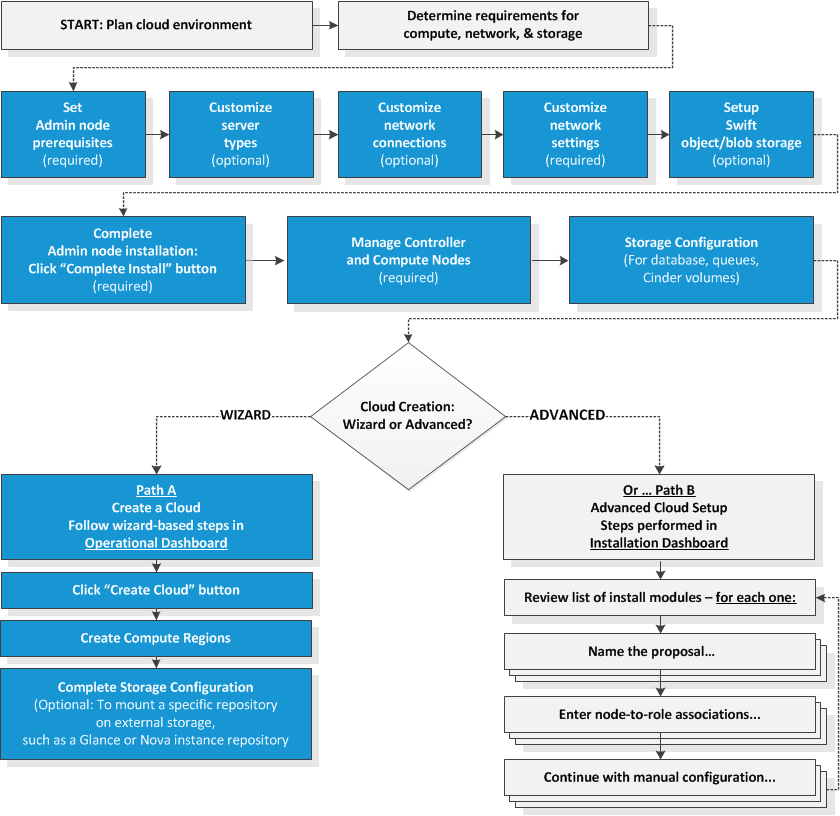
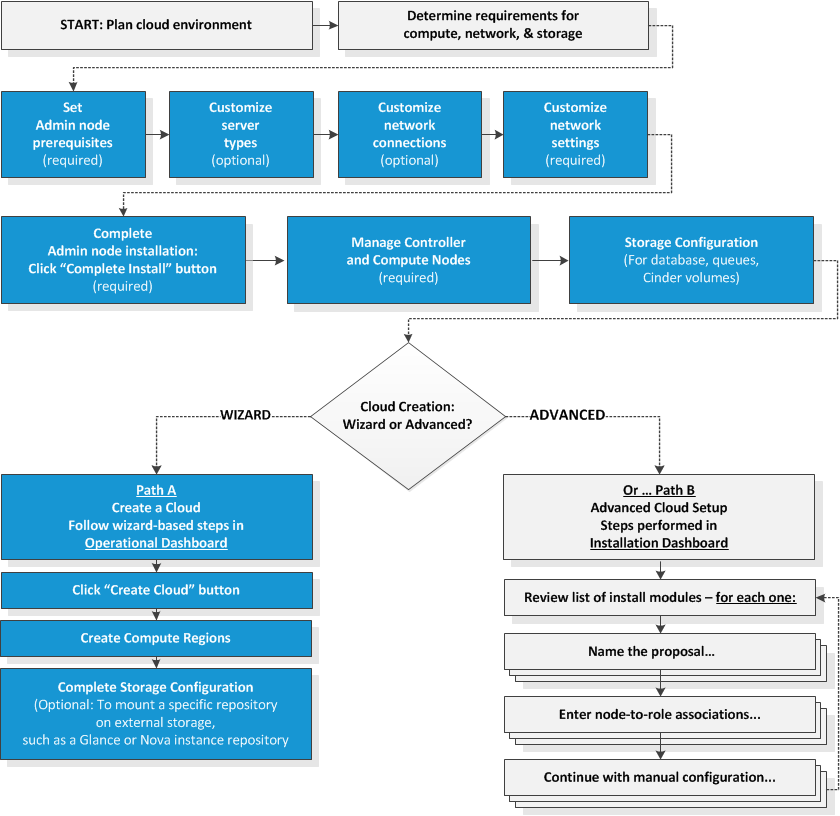
remove swift setup setps and update diagram

Changed region(s): [[0.7738, 0.0919, 1.0, 0.2451]]

diff --git a/cloudos/manage.troubleshooting.md b/cloudos/manage.troubleshooting.md
@@ -69,7 +69,11 @@ This topic describes known problems and solutions for the following areas:
 
 * [Troubleshooting Cloud OS Installation](#troubleshooting-cloud-os-installation)
 
-(TOC intra-file xrefs coming...) 
+ * [Problem: Cloud Infrastructure install module proposal fails](#problem-cloud-infrastructure-install-module-proposal-fails)
+ * [Problem: Cloud Controller node or Compute Region node displays the "not ready" (grey) state](#problem-cloud-controller-node-or-compute-region-node-displays-the-not-ready-grey-state)
+ * [Problem: Stopping services before Cloud OS completes processing jobs can cause a job failure](#problem-stopping-services-before-cloud-os-completes-processing-jobs-can-cause-a-job-failure)
+ * [Problem: Configure Cinder to use RAW multipath devices](#problem-configure-cinder-to-use-raw-multipath-devices)
+ * [Problem: Red screen when installing OS on bare metal nodes](#problem-red-screen-when-installing-os-on-bare-metal-nodes)
 
 
 ## Troubleshooting Cloud OS ISO
@@ -1192,11 +1196,11 @@ This section describes the following known problems and solutions for the Admini
 
 This section describes the following known problems and solutions for the Installation Dashboard:
 
-* [Problem: Cloud Infrastructure install module proposal fails
-* [Problem: Cloud Controller node or Compute Region node displays the "not ready" (grey) state
-* [Problem: Stopping services before Cloud OS completes processing jobs can cause a job failure
-* [Problem: Configure Cinder to use RAW multipath devices
-* [Problem: Red screen when installing OS on bare metal nodes
+* [Problem: Cloud Infrastructure install module proposal fails](#problem-cloud-infrastructure-install-module-proposal-fails)
+* [Problem: Cloud Controller node or Compute Region node displays the "not ready" (grey) state](#problem-cloud-controller-node-or-compute-region-node-displays-the-not-ready-grey-state)
+* [Problem: Stopping services before Cloud OS completes processing jobs can cause a job failure](#problem-stopping-services-before-cloud-os-completes-processing-jobs-can-cause-a-job-failure)
+* [Problem: Configure Cinder to use RAW multipath devices](#problem-configure-cinder-to-use-raw-multipath-devices)
+* [Problem: Red screen when installing OS on bare metal nodes](#problem-red-screen-when-installing-os-on-bare-metal-nodes)
 
 
 ### Problem: Cloud Infrastructure install module proposal fails

diff --git a/cloudos/install.md b/cloudos/install.md
@@ -35,7 +35,6 @@ Install and set up the Admin node:
 * [Customize Server Types (Optional)](/cloudos/install/customize-server-types/)
 * [Customize Network Connections (Optional)](/cloudos/install/customize-network-connections/)
 * [Customize Network Settings (Required)](/cloudos/install/customize-network-settings/)
-* [Setup Swift Storage Network (Optional)](/cloudos/install/setup-swift/)
 * [Complete Admin Node Installation (Required)](/cloudos/install/complete-admin-node-installation/)
 
 After you install and set up the Admin node, you can perform additional steps:
@@ -46,15 +45,17 @@ After you install and set up the Admin node, you can perform additional steps:
 * [Install Hot Fixes](/cloudos/install/hot-fixes/)
 * [Updates and Extensions](/cloudos/install/updates-and-extensions/)
 
-Also see the website copy of the [HP Cloud OS Operational Dashboard Help](http://docs.hpcloud.com/cloudos/operational-dashboard/index.htm). 
-Note: website copy not deployed yet. To access this document in the Operational Dashboard, click **Help** in its top banner.
-
 Finally, if you do not intend to use the wizard-based Cloud OS installation process that's described in 
 the Create a Cloud topic, and instead decide to apply and configure the install modules yourself, 
 see these topics: 
 
 * [Advanced Cloud Setup](/cloudos/install/advanced-cloud-setup/)
 * [Install Modules Reference](/cloudos/install/install-modules-reference/)
+
+**Note:** Also see the Help topics that are available in the Operational Dashboard and Administration Dashboard.  Wbsite copies are available:
+
+* [HP Cloud OS Operational Dashboard Help](http://docs.hpcloud.com/cloudos/operational-dashboard/index.htm)
+* [HP Cloud OS Administration Dashboard Help](http://docs.hpcloud.com/cloudos/administration-dashboard/index.htm)
 
 <a href="#_top" style="padding:14px 0px 14px 0px; text-decoration: none;"> Return to Top &#8593; </a>
 

diff --git a/cloudos/siteindex.md b/cloudos/siteindex.md
@@ -44,7 +44,6 @@ PageRefresh();
 * [Customize Server Types (Optional)](/cloudos/install/customize-server-types/)
 * [Customize Network Connections (Optional)](/cloudos/install/customize-network-connections/)
 * [Customize Network Settings (Required)](/cloudos/install/customize-network-settings/)
-* [Setup Swift Storage Network (Optional)](/cloudos/install/setup-swift/)
 * [Complete Admin Node Installation (Required)](/cloudos/install/complete-admin-node-installation/)
 * [Create a Cloud](/cloudos/install/create-cloud/) 
 * [Launch Administration Dashboard](/cloudos/install/launch-admin-dashboard/)
@@ -52,15 +51,14 @@ PageRefresh();
 * [Install Hot Fixes](/cloudos/install/hot-fixes/)
 * [Updates and Extensions](/cloudos/install/updates-and-extensions/)
 * [Advanced Cloud Setup](/cloudos/install/advanced-cloud-setup/)
-* [Install Modules Reference](/cloudos/install/install-modules-reference/)
+* [Install Modules Reference](/cloudos/install/install-modules-reference/) 
 
 #### [Manage your Clouds](/cloudos/manage/)
 
 * [HP Cloud OS Utilities](/cloudos/manage/utilities/)
 * [HP Cloud OS Troubleshooting](/cloudos/manage/troubleshooting/) 
-* [HP Cloud OS Operational Dashboard Help](http://docs.hpcloud.com/cloudos/operational-dashboard/index.htm)  
-* [HP Cloud OS Administration Dashboard Help](http://docs.hpcloud.com/cloudos/administration-dashboard/index.htm)  
-
+* [HP Cloud OS Operational Dashboard Help (website copy)](http://docs.hpcloud.com/cloudos/operational-dashboard/index.htm) 
+* [HP Cloud OS Administration Dashboard Help (website copy)](http://docs.hpcloud.com/cloudos/administration-dashboard/index.htm)  
 
 #### [Develop](/cloudos/develop/)
 

diff --git a/cloudos/install.advanced-cloud-setup.md b/cloudos/install.advanced-cloud-setup.md
@@ -43,8 +43,7 @@ Install modules are a mechanism to install and configure a service on the Contro
 
 When you create a cloud using the process defined in [Create a Cloud](/cloudos/install/create-cloud/), a number of OpenStack and HP Cloud OS 
 install modules are automatically configured and deployed for you. In most cases, the automated deployment of install modules will suffice. 
-**Exception:** the Swift install module must be installed manually following the general steps in this topic; this assumes you have already setup Swift, 
-as explained in [Setup Swift Storage Network](/cloudos/install/setup-swift) and [Create a Cloud](/cloudos/install/create-cloud).
+**Exception:** the Swift install module must be installed manually following the general steps in this topic. 
 
 If you decide instead to apply the install modules yourself, or should you need to customize values in the install modules 
 that were not exposed in the Create Cloud Attributes tab, this advanced topic, along with 
@@ -184,8 +183,7 @@ The following table lists the install modules **in the order they must be applie
 
 <tr style="background-color: white; color: black;">
 <td> Hp Cos Swift 100 </td>
-<td> Provides an object/blob storage service. <b> Note: </b> The Swift install module must be setup manually, before clicking Complete Install in the HP Cloud OS Operational Dashboard. 
-See [Setup Swift Storage Network (Optional)](/cloudos/install/setup-swift/).
+<td> Provides an object/blob storage service.
 </td>
 </tr>
 

diff --git a/cloudos/install.complete-admin-node-installation.md b/cloudos/install.complete-admin-node-installation.md
@@ -19,14 +19,13 @@ PageRefresh();
 </script>
 
 
-<p style="font-size: small;"> <a href="/cloudos/install/setup-swift/">&#9664; PREV</a> | <a href="/cloudos/install/">&#9650; UP</a> | <a href="/cloudos/install/create-cloud/">NEXT &#9654;</a> </p>
+<p style="font-size: small;"> <a href="/cloudos/install/customize-network-settings/">&#9664; PREV</a> | <a href="/cloudos/install/">&#9650; UP</a> | <a href="/cloudos/install/create-cloud/">NEXT &#9654;</a> </p>
 
 # Complete Admin Node Installation (Required)
 
 This topic describes the steps to complete the Admin Node installation. These steps are required. 
 
-> **Caution:** Be sure the values for the Prerequisites, Server Types, Connections and Networks are what you need, before you follow the steps in this topic. Also, if you want to use Swift in your cloud, you must 
-manually create the storage region before clicking Complete Install in the HP Cloud OS Operational Dashboard, as noted in the [Setup Swift (Optional)](/cloudos/install/setup-swift/) topic. Once the install process is triggered, the settings in preceding steps cannot be changed. 
+> **Caution:** Be sure the values for the Prerequisites, Server Types, Connections and Networks are what you need, before you follow the steps in this topic. Once the install process is triggered, the settings in preceding steps cannot be changed. 
 If you want to make changes, you need to start over by re-installing the Admin Node.  
 
 To complete the Admin Node installation:

diff --git a/cloudos/install.install-modules-reference.md b/cloudos/install.install-modules-reference.md
@@ -1196,11 +1196,7 @@ virtual machines. Select kvm if nova-compute nodes are bare-metal. </td>
 
 ## Hp Cos Swift 100
 
-**Important:** As noted in a prior topic, [Setup Swift (Optional)](/cloudos/install/setup-swift/), if 
-you want to use Swift in your cloud, you must manually install Swift before clicking Complete Install in the HP Cloud OS Operational 
-Dashboard.
-
-If you setup Swift, you can modify its attributes, which are shown in the following table. In most cases, you can use the default values. 
+In most cases, you can use the default values. 
 
 **Note:** The Additional Middleware and their attributes are not supported in the current release.  
 
@@ -1224,7 +1220,7 @@ If you setup Swift, you can modify its attributes, which are shown in the follow
 <tr>
 <th style="background-color: #C8C8C8;"> Roles </th> 
 <td colspan="2" style="background-color: white;"> Hp cos swift 100-ring-storage <br /> Hp cos swift 100-ring-compute <br /> Hp cos swift 100-proxy <br /> Hp cos swift 100-dispersion. For 
-information about the roles, see the Swift Roles section of the [Setup Swift](/cloudos/install/setup-swift) topic. </td>
+information about the roles, see the Swift Roles section of [Advanced Cloud Setup](/cloudos/install/advanced-cloud-setup) topic. </td>
 </tr>
 
 <tr style="background-color: #C8C8C8;">

diff --git a/cloudos/manage.md b/cloudos/manage.md
@@ -19,7 +19,7 @@ Refer to these documentation resources:
 
 * [HP Cloud OS Troubleshooting](/cloudos/manage/troubleshooting/) &mdash; Presents a set of topics that help you troubleshoot issues you may encounter with HP Cloud OS.
 
-* <a href="http://docs.hpcloud.com/cloudos/operational-dashboard/index.htm" target="opdash">HP Cloud OS Operational Dashboard Help</a> &mdash; This document is a copy of the Help that's available in the HP Cloud OS Operational Dashboard.  
+* <a href="http://docs.hpcloud.com/cloudos/operational-dashboard/index.htm" target="opdash">HP Cloud OS Operational Dashboard Help (website copy)</a> &mdash; This document is a copy of the Help that's available in the HP Cloud OS Operational Dashboard.  
 
-* <a href="http://docs.hpcloud.com/cloudos/administration-dashboard/index.htm" target="admindash">HP Cloud OS Administration Dashboard Help</a> &mdash; This document is a copy of the Help that's available in the HP Cloud OS Administration Dashboard. 
+* <a href="http://docs.hpcloud.com/cloudos/administration-dashboard/index.htm" target="admindash">HP Cloud OS Administration Dashboard Help (website copy)</a> &mdash; This document is a copy of the Help that's available in the HP Cloud OS Administration Dashboard. 
  

diff --git a/cloudos/install.overview.md b/cloudos/install.overview.md
@@ -21,8 +21,6 @@ PageRefresh();
 
 <p style="font-size: small;"> <a href="/cloudos/install/">&#9664; PREV</a> | <a href="/cloudos/install/">&#9650; UP</a> | <a href="/cloudos/install/before-you-install/">NEXT &#9654;</a> </p>
 
-
-
 # Installation Overview
 
 Welcome! This topic presents an overview of the installation steps.  
@@ -110,8 +108,7 @@ compute fabric controller.
 
 * Quantum (Neutron) (Network Connectivity Service)&mdash; An OpenStack service to create and provision virtual networks.
 
-* Swift (OpenStack Object Store) &mdash; An OpenStack service to store and retrieve lots of data in virtual containers. In the current release, must 
-be setup manually as described in [Setup Swift (Optional)](/cloudos/install/setup-swift), before you click Complete Install.
+* Swift (OpenStack Object Store) &mdash; An OpenStack service to store and retrieve lots of data in virtual containers.  
 
 * Graffiti (Resource Pool Registry and Capability Tagging Service) &mdash; An HP Cloud OS service to support
 diverse functions: discovering, registering, and retrieving resource pool definitions for compute, network, and volume resources; 

diff --git a/cloudos/install.customize-network-settings.md b/cloudos/install.customize-network-settings.md
@@ -19,7 +19,7 @@ PageRefresh();
 </script>
 
 
-<p style="font-size: small;"> <a href="/cloudos/install/customize-network-connections/">&#9664; PREV</a> | <a href="/cloudos/install/">&#9650; UP</a> | <a href="/cloudos/install/setup-swift/">NEXT &#9654;</a> </p>
+<p style="font-size: small;"> <a href="/cloudos/install/customize-network-connections/">&#9664; PREV</a> | <a href="/cloudos/install/">&#9650; UP</a> | <a href="/cloudos/install/complete-admin-node-installation/">NEXT &#9654;</a> </p>
 
 # Customize Network Settings (Required)
 
@@ -233,7 +233,7 @@ the addresses are correct.
 
 ## Next Step
 
-Proceed to the next topic, [Setup Swift (Optional)](/cloudos/install/setup-swift/).
+Proceed to the next topic, [Complete Admin Node Installation (Required)](/cloudos/install/complete-admin-node-installation/).
 
 <a href="#_top" style="padding:14px 0px 14px 0px; text-decoration: none;"> Return to Top &#8593; </a>
 

diff --git a/cloudos/install.create-cloud.md b/cloudos/install.create-cloud.md
@@ -270,10 +270,7 @@ Nodes, and the Hypervisor.
 ## Next Steps
 
 After you complete the compute region steps, and prior to launching the Administration Dashboard, you can install Swift (optional - if used). 
-This statement assumes you have already:
-
-* [Setup Swift Storage Network](/cloudos/install/setup-swift) as described in a prior topic
-* Zeroed out the disks, as described in the [Object Storage](#object-storage) section of this topic
+This statement assumes you have already zeroed out the disks, as described in the [Object Storage](#object-storage) section of this topic. 
 
 For information about applying install modules, including Swift, see two topics: 
 
